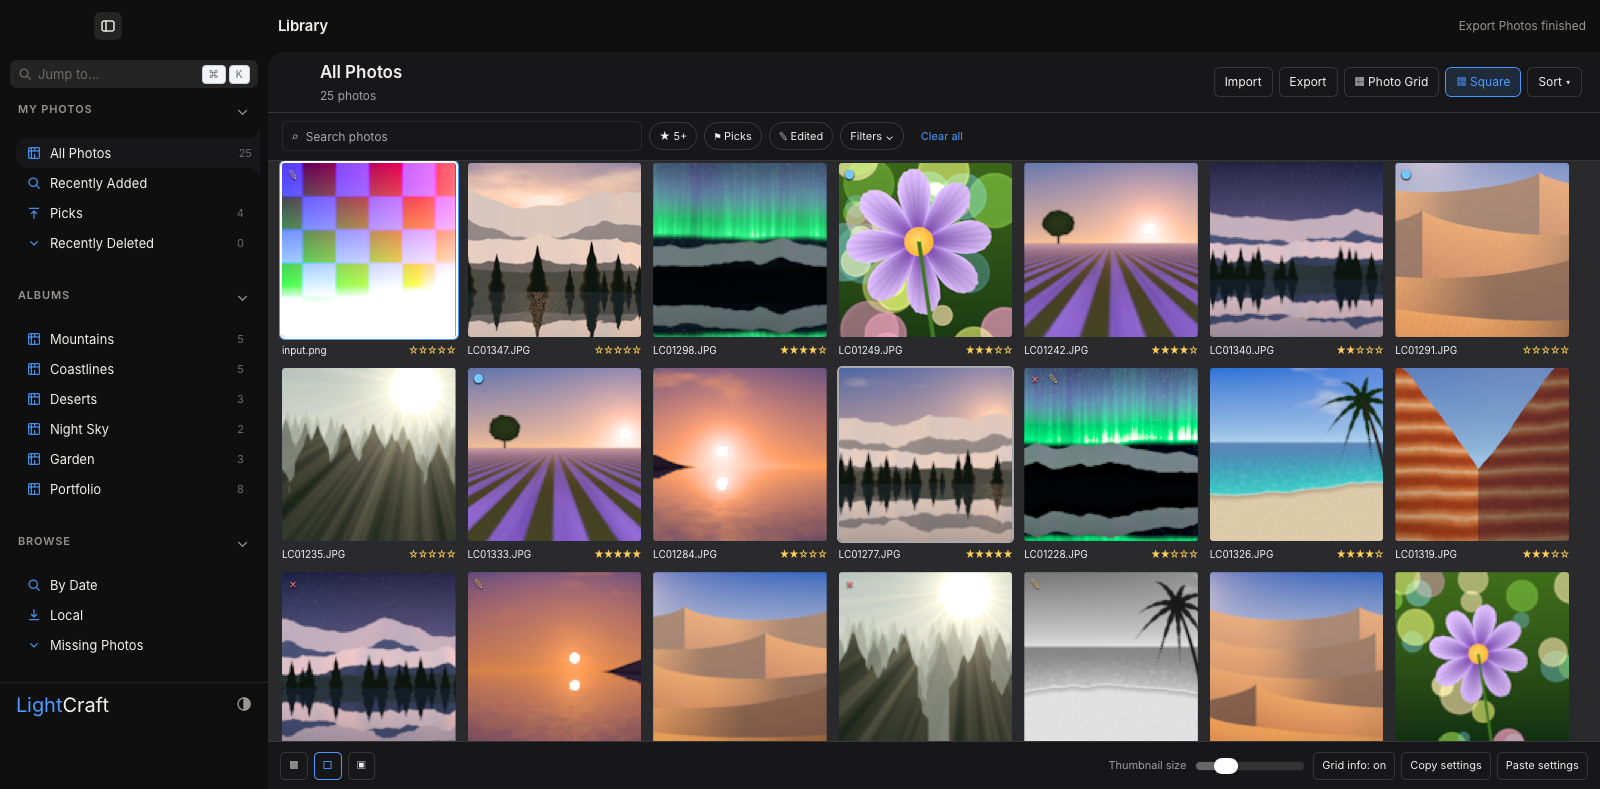
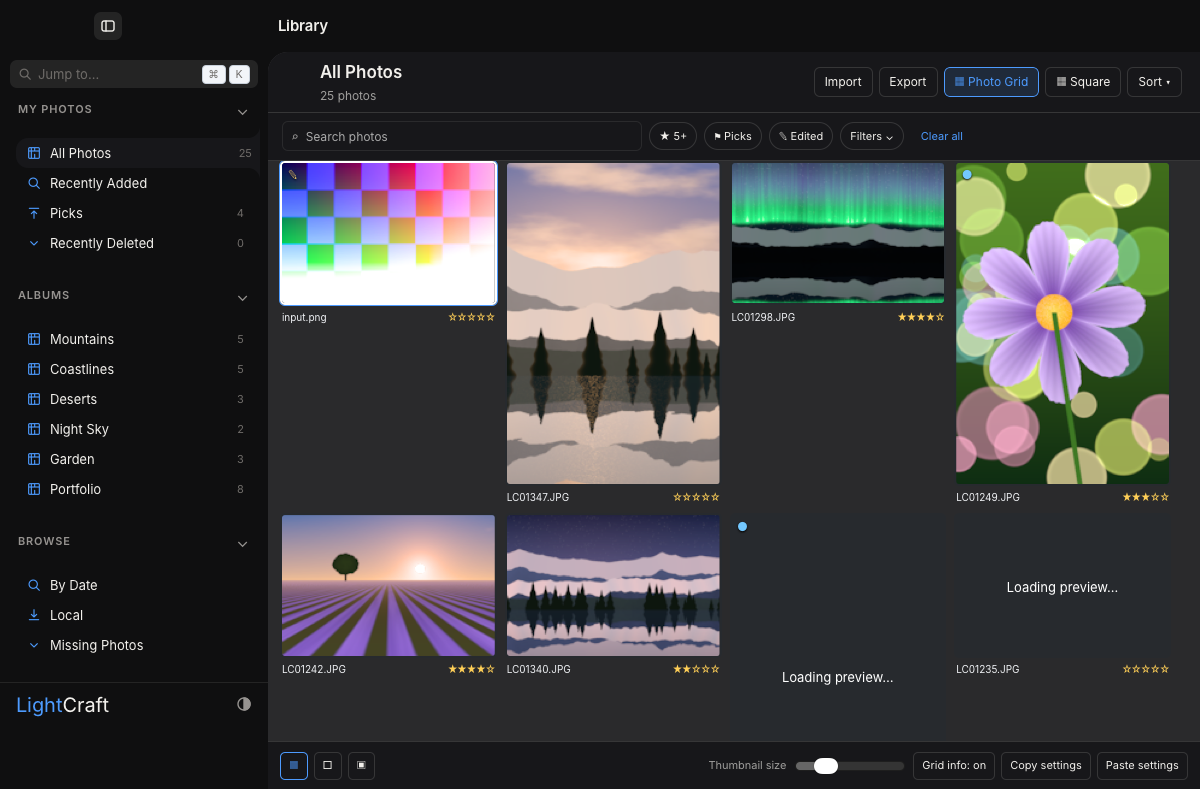
Document Mac restart recovery and current build coexistence

diff --git a/runtime.html b/runtime.html
@@ -1,9 +1,10 @@
 <!doctype html><html lang="en"><head><meta charset="utf-8"><meta name="viewport" content="width=device-width,initial-scale=1"><title>LightCraft · Actual app verification</title><link rel="icon" href="data:,"><style>*{box-sizing:border-box}body{margin:0;background:#101114;color:#f2f3f6;font:15px/1.55 system-ui}main{max-width:1600px;margin:auto;padding:20px 16px}h1{font-size:23px;margin:12px 0}h2{font-size:19px;margin:24px 0 8px}p{color:#bdc2cf}a{color:#8fc5ff;text-underline-offset:4px}img{width:100%;height:auto;border:1px solid #383b44;border-radius:10px}.checks{display:grid;grid-template-columns:repeat(2,minmax(0,1fr));gap:10px}.check{background:#1d2028;border:1px solid #3a3e4a;border-radius:9px;padding:14px}.pass{color:#85dfab}.pending{color:#f2c079}code{overflow-wrap:anywhere}footer{border-top:1px solid #353842;margin-top:30px;padding-top:12px}@media(max-width:650px){.checks{grid-template-columns:1fr}main{padding:16px 12px}}</style></head><body><main>
 <a href="index.html">← Design review gallery</a><h1>Actual app verification</h1><p>Current source <code>b2d3ee5</code> · captured 8 October 2026 · existing RightKit control0.1.6 & QA0.2.6.</p>
-<div class="checks"><div class="check"><strong class="pass">Mac local smoke · PASS</strong><br>Import → decoded preview → exposure0.75 → undo0 → PNG export. Export decoded at96×64 with6,144 distinct colours.</div><div class="check"><strong class="pass">Windows native CI · 12/12 PASS</strong><br>Import/export, HDR, IPC, stale preview, cache, scalability, preferences, gestures, editing tools, Sony ARW, Lightroom import & catalog recovery.</div><div class="check"><strong class="pass">Mac catalog recovery · PASS</strong><br>Backup unchanged after mutation; fresh-copy restore recovered exposure1.25 & catalog counts; native Open Library decoded selected photo. Same-process check.</div><div class="check"><strong class="pass">Workspace CI & packaging lint · PASS</strong><br>Source contracts, frontend typecheck/build & Rust fmt, clippy, tests, parity, layers, assets & WASM checks.</div></div>
+<div class="checks"><div class="check"><strong class="pass">Mac local smoke · PASS</strong><br>Import → decoded preview → exposure0.75 → undo0 → PNG export. Export decoded at96×64 with6,144 distinct colours.</div><div class="check"><strong class="pass">Windows native CI · 12/12 PASS</strong><br>Import/export, HDR, IPC, stale preview, cache, scalability, preferences, gestures, editing tools, Sony ARW, Lightroom import & catalog recovery.</div><div class="check"><strong class="pass">Mac catalog recovery · PASS</strong><br>Backup unchanged after mutation; fresh-copy restore recovered exposure1.25 & catalog counts; native Open Library decoded selected photo. Three-process check: saved edit reopened & mutation persisted across restart.</div><div class="check"><strong class="pass">Workspace CI & packaging lint · PASS</strong><br>Source contracts, frontend typecheck/build & Rust fmt, clippy, tests, parity, layers, assets & WASM checks.</div></div>
 <h2>Mac · actual running app</h2><p>Real packaged WKWebView & Rust engine, displaying imported procedural colour fixture. Tap image for full-resolution zoom.</p><a href="runtime/mac-actual-app.png"><img src="runtime/mac-actual-app.png" alt="Actual Mac LightCraft displaying decoded imported colour fixture"></a>
 <h2>Windows · actual CI app</h2><a href="runtime/windows-actual-app.png"><img src="runtime/windows-actual-app.png" alt="Actual Windows LightCraft displaying imported colour fixture after edit & undo"></a>
 <h2>Mac · restored catalog</h2><a href="runtime/mac-recovery.png"><img src="runtime/mac-recovery.png" alt="Actual Mac LightCraft grid after fresh-copy catalog restoration"></a>
-<h2 class="pending">Remaining qualification</h2><p>Mac binary compiled successfully. Strict Mac CI still fails foreground identity tracking &1280×800 viewport sizing, which native display clamps to1280×684. Local LaunchServices startup stalled in socket cleanup/bind; launching existing bundle executable with isolated QA storage passed. No OS permissions were changed.</p><p>Mac recovery across application restart, installer rollback & current-revision coexistence still need exact evidence. Preview stays separate from installed LightCraft. Production visual refresh is still represented by design mockups.</p>
+<h2>Mac · coexistence with original</h2><p>Both executables responded simultaneously. Original used in-memory demo photos & was closed after this check; preview remains running.</p><a href="runtime/mac-coexistence-original.png"><img src="runtime/mac-coexistence-original.png" alt="Original LightCraft captured while current preview was also running"></a>
+<h2 class="pending">Remaining qualification</h2><p>Mac binary compiled successfully. Strict Mac CI still fails foreground identity tracking &1280×800 viewport sizing, which native display clamps to1280×684. Local LaunchServices startup stalled in socket cleanup/bind; launching existing bundle executable with isolated QA storage passed. No OS permissions were changed.</p><p>Current-revision coexistence also passed: both app-owned channels responded; original closed afterward & original settings stayed unchanged. Installer rollback remains unqualified. Preview stays separate from installed LightCraft. Production visual refresh is still represented by design mockups.</p>
 <footer><a href="runtime/results.json">Machine-readable results</a> · <a href="https://github.com/Orthic-Labs/lightcraft/actions/runs/37762343340">Native CI & compiled artifacts</a> · <a href="https://github.com/Orthic-Labs/lightcraft/actions/runs/37762245731">Workspace CI</a> · <a href="https://github.com/Orthic-Labs/lightcraft/actions/runs/37762245749">Packaging lint</a></footer>
 </main></body></html>
